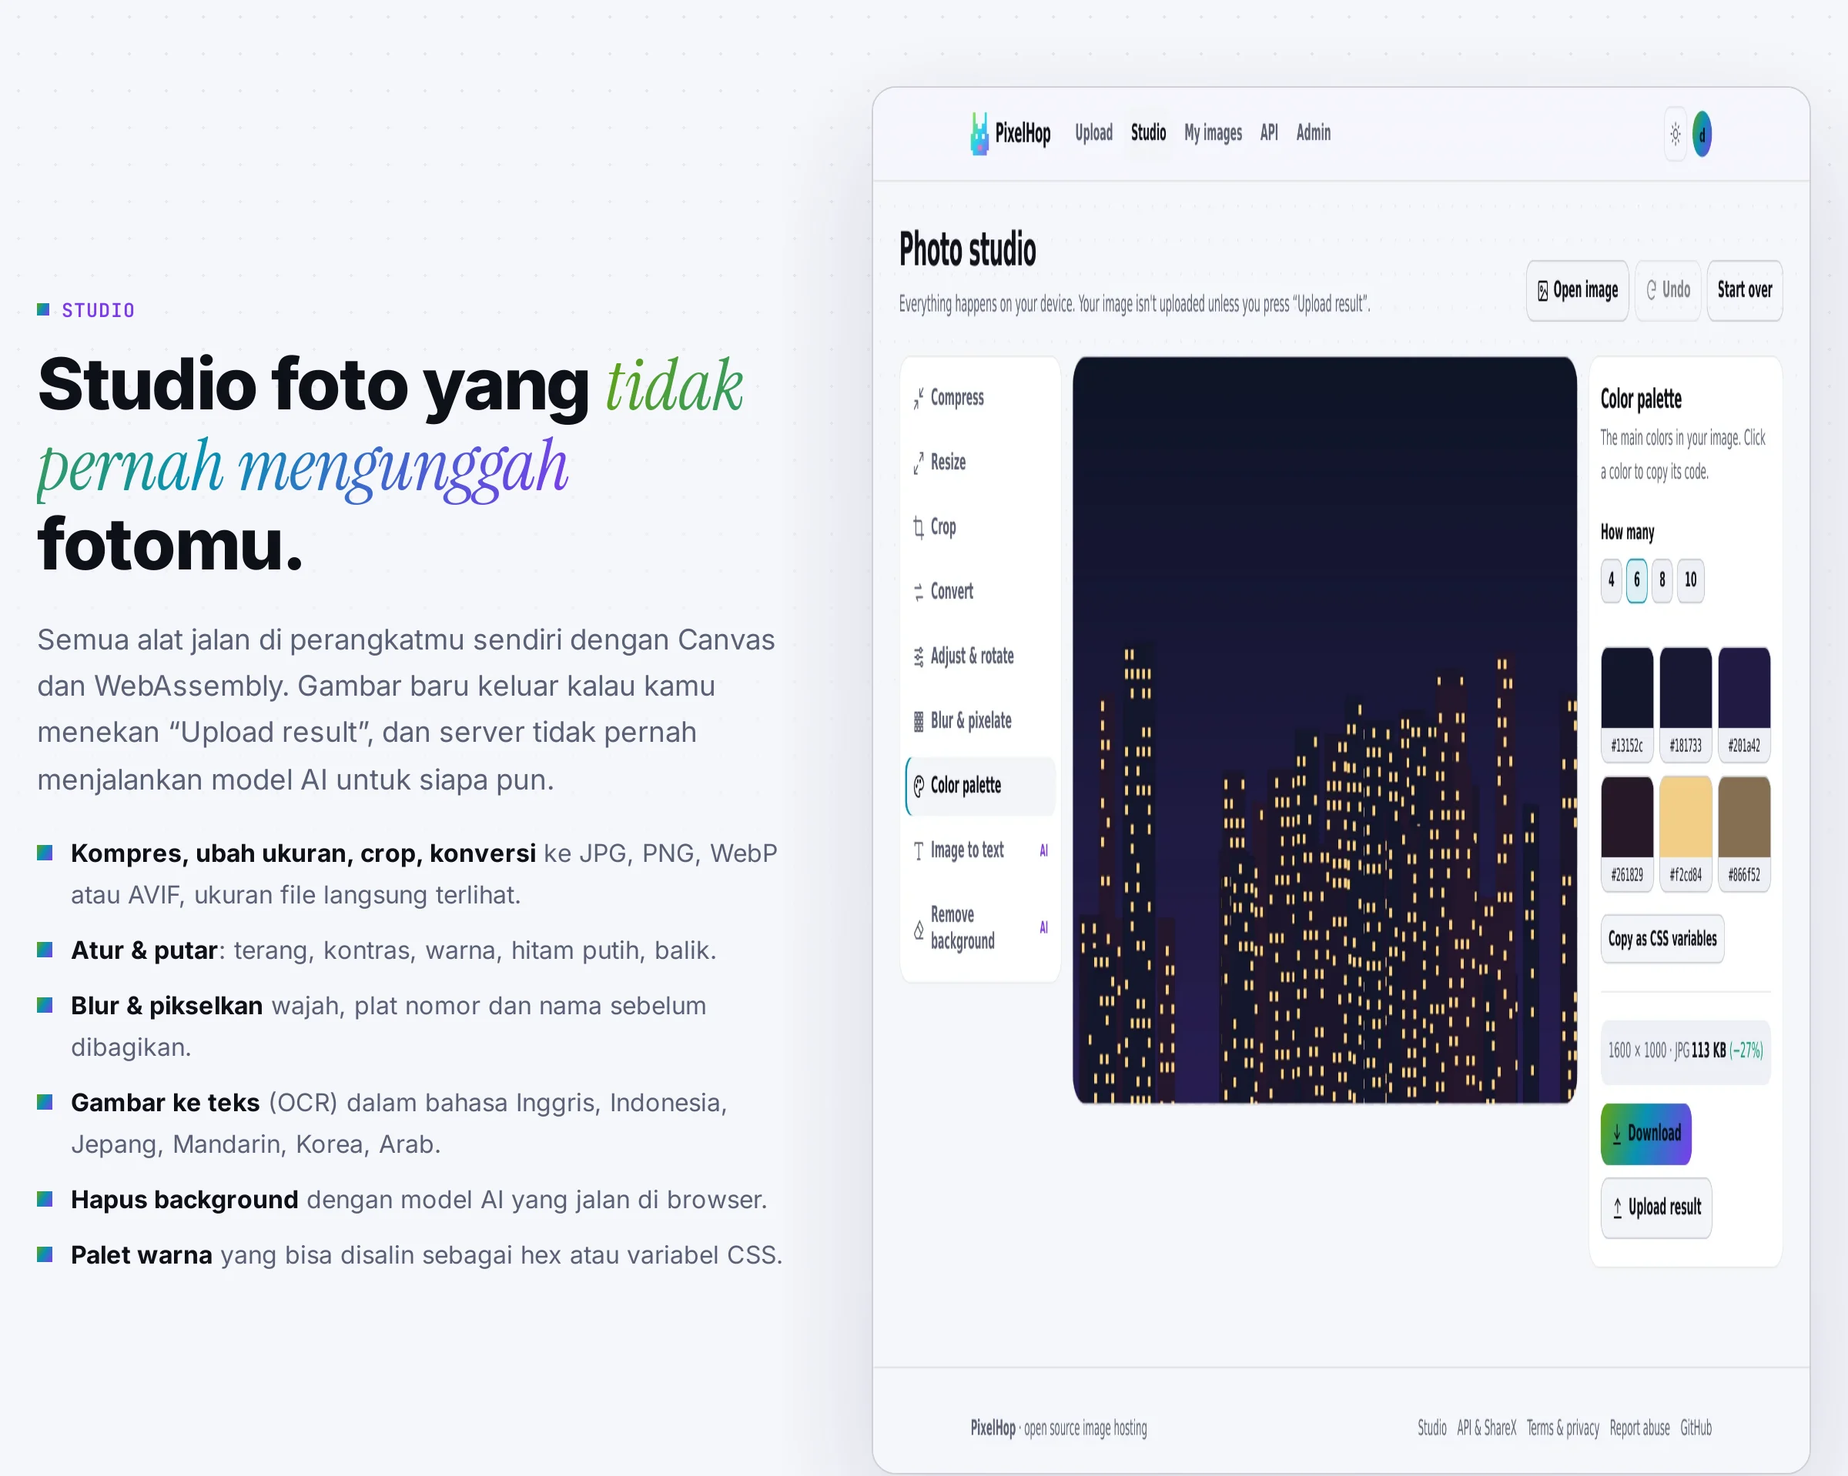
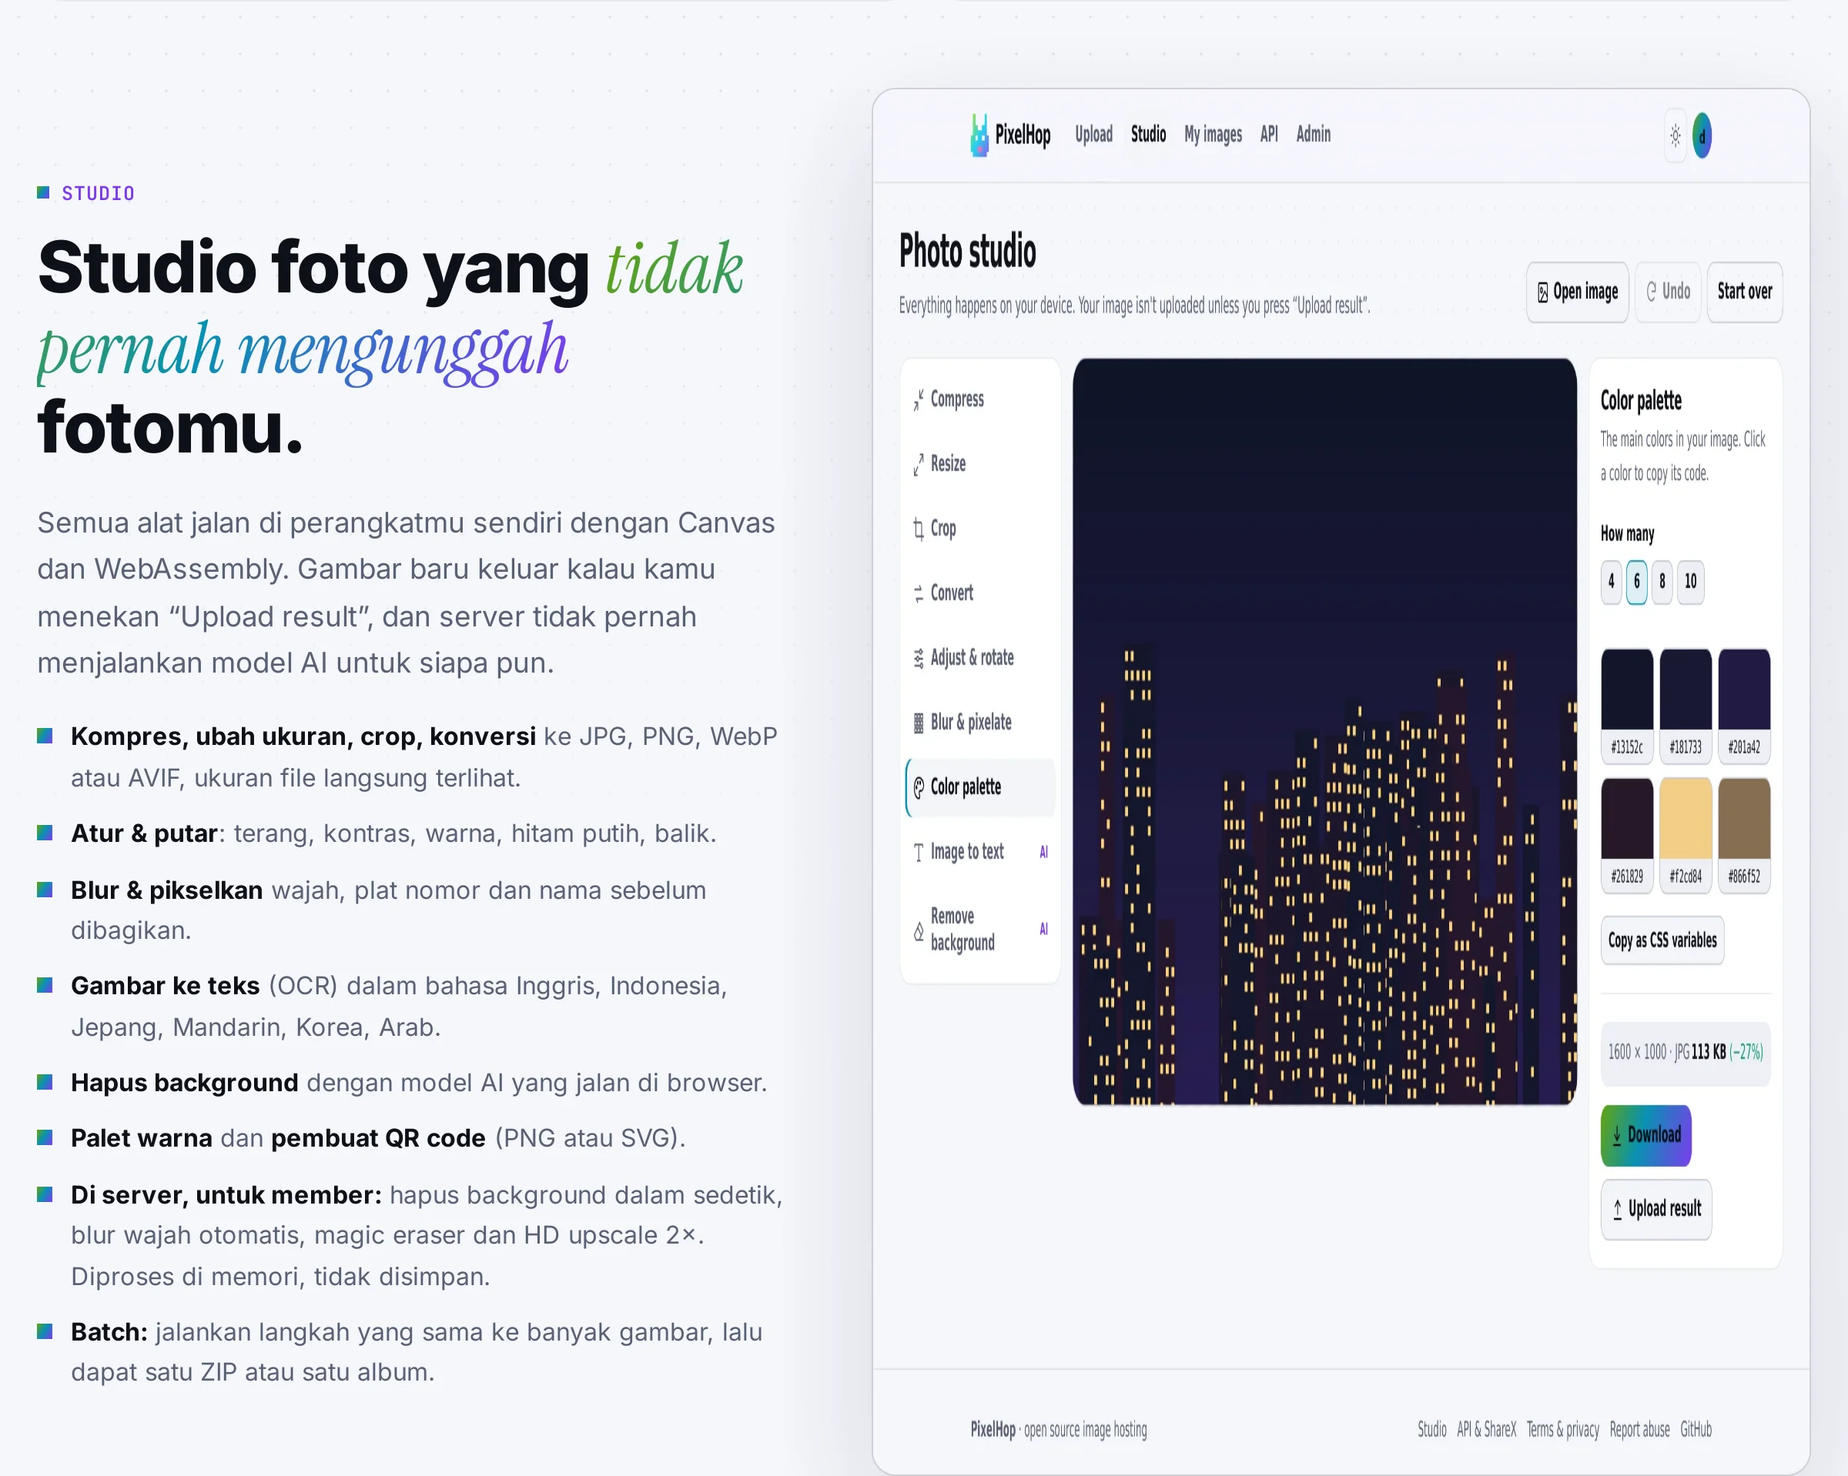
Docs for the full 3.0.0 feature set; Google callback .php path
- README (EN/ID), .env.example, CHANGELOG and AUDIT cover HEL.ink accounts,
  server AI tools, batch, copy-all links and QR codes
- deploy/pixelhop-ai.service example for tools/ai-server.py
- Website and README pictures re-rendered with the new features
- /auth/google-callback.php accepted, matching PixelHop 2's registered URI

diff --git a/docs/index.html b/docs/index.html
@@ -113,7 +113,9 @@ if(t==='light'||t==='dark')d.setAttribute('data-theme',t);})();
       <div style="--c:var(--amber)"><div class="ico"><svg><use href="#i-term"/></svg></div><h3>ShareX &amp; API</h3><p><span data-en>One-click ShareX config, REST API with keys. Old PixelHop 2 configs keep working.</span><span data-id>Config ShareX sekali klik, REST API dengan key. Config PixelHop 2 tetap jalan.</span></p></div>
       <div style="--c:var(--green)"><div class="ico"><svg><use href="#i-server"/></svg></div><h3><span data-en>Host it yourself</span><span data-id>Host sendiri</span></h3><p><span data-en>One binary, Docker image or systemd. Disk, R2, MinIO, B2, Contabo.</span><span data-id>Satu binary, image Docker atau systemd. Disk, R2, MinIO, B2, Contabo.</span></p></div>
       <div style="--c:var(--cyan)"><div class="ico"><svg><use href="#i-shield"/></svg></div><h3><span data-en>Moderation built in</span><span data-id>Moderasi bawaan</span></h3><p><span data-en>Reports, hide/delete, IP bans, lock or suspend accounts, warnings.</span><span data-id>Laporan, sembunyikan/hapus, ban IP, kunci atau suspend akun, peringatan.</span></p></div>
-      <div style="--c:var(--violet)"><div class="ico"><svg><use href="#i-qr"/></svg></div><h3><span data-en>Your gallery</span><span data-id>Galeri pribadi</span></h3><p><span data-en>Search, sort, rename and bulk delete. Guests keep a list on their own device.</span><span data-id>Cari, urutkan, ganti nama dan hapus massal. Tamu menyimpan daftar di perangkatnya.</span></p></div>
+      <div style="--c:var(--violet)"><div class="ico"><svg><use href="#i-qr"/></svg></div><h3><span data-en>Copy every link at once</span><span data-id>Copy semua link sekaligus</span></h3><p><span data-en>After a bulk upload: all direct, page, Markdown, BBCode or HTML links in one click. Gallery ZIP downloads too.</span><span data-id>Setelah upload massal: semua link direct, halaman, Markdown, BBCode atau HTML dengan satu klik. Galeri juga bisa diunduh sebagai ZIP.</span></p></div>
+      <div class="w3" style="--c:var(--pink)"><div class="ico"><svg><use href="#i-shield"/></svg></div><h3><span data-en>One account with HEL.ink</span><span data-id>Satu akun dengan HEL.ink</span></h3><p><span data-en>On p.hel.ink you sign in with your HEL.ink account: the same login for short links, bio pages and images, with Google sign-in and two-factor codes. Self-hosters can leave it off.</span><span data-id>Di p.hel.ink kamu login dengan akun HEL.ink: login yang sama untuk short link, halaman bio dan gambar, lengkap dengan Google dan kode 2FA. Yang self-host bisa mematikannya.</span></p></div>
+      <div class="w3" style="--c:var(--lime)"><div class="ico"><svg><use href="#i-zap"/></svg></div><h3><span data-en>Old links keep working</span><span data-id>Link lama tetap jalan</span></h3><p><span data-en>Every page, direct and thumbnail link from PixelHop 2, plus its ShareX configs and upload result pages, answers exactly as before.</span><span data-id>Semua link halaman, direct dan thumbnail dari PixelHop 2, beserta config ShareX dan halaman hasil upload, tetap berfungsi seperti dulu.</span></p></div>
     </div>
   </div>
 </section>
@@ -131,7 +133,9 @@ if(t==='light'||t==='dark')d.setAttribute('data-theme',t);})();
         <li><span data-en><b>Blur &amp; pixelate</b> faces, plates and names before you share.</span><span data-id><b>Blur &amp; pikselkan</b> wajah, plat nomor dan nama sebelum dibagikan.</span></li>
         <li><span data-en><b>Image to text</b> (OCR) in English, Indonesian, Japanese, Chinese, Korean, Arabic.</span><span data-id><b>Gambar ke teks</b> (OCR) dalam bahasa Inggris, Indonesia, Jepang, Mandarin, Korea, Arab.</span></li>
         <li><span data-en><b>Remove background</b> with an AI model that runs in the browser.</span><span data-id><b>Hapus background</b> dengan model AI yang jalan di browser.</span></li>
-        <li><span data-en><b>Color palette</b> you can copy as hex or CSS variables.</span><span data-id><b>Palet warna</b> yang bisa disalin sebagai hex atau variabel CSS.</span></li>
+        <li><span data-en><b>Color palette</b> and a <b>QR code generator</b> (PNG or SVG).</span><span data-id><b>Palet warna</b> dan <b>pembuat QR code</b> (PNG atau SVG).</span></li>
+        <li><span data-en><b>On the server, for members:</b> background removal in a second, automatic face blur, a magic eraser and HD upscale 2×. Processed in memory, never stored.</span><span data-id><b>Di server, untuk member:</b> hapus background dalam sedetik, blur wajah otomatis, magic eraser dan HD upscale 2×. Diproses di memori, tidak disimpan.</span></li>
+        <li><span data-en><b>Batch:</b> run the same steps on many images, then get one ZIP or one album.</span><span data-id><b>Batch:</b> jalankan langkah yang sama ke banyak gambar, lalu dapat satu ZIP atau satu album.</span></li>
       </ul>
     </div>
     <div class="mini-shot themed rv"><img class="dk" src="media/app-studio-dark.webp" alt="The PixelHop studio with the color palette tool open" width="1440" height="900" loading="lazy"><img class="lt" src="media/app-studio-light.webp" alt="" width="1440" height="900" loading="lazy"></div>
@@ -244,7 +248,7 @@ make build && ./pixelhop</pre></div></div>
     <div class="rv">
       <details><summary><span data-en>Is it free?</span><span data-id>Gratis?</span></summary><p><span data-en>Yes. p.hel.ink is free to use, and the code is MIT-licensed, so you can run your own copy, even commercially.</span><span data-id>Ya. p.hel.ink gratis dipakai, dan kodenya berlisensi MIT, jadi kamu bisa menjalankan versimu sendiri, bahkan untuk komersial.</span></p></details>
       <details><summary><span data-en>Do I need an account?</span><span data-id>Perlu akun?</span></summary><p><span data-en>No. Guests can upload and get a private delete link for each image (saved in their browser too). An account adds a gallery, a storage quota you can see, and API keys.</span><span data-id>Tidak. Tamu bisa mengunggah dan mendapat link hapus pribadi untuk setiap gambar (juga tersimpan di browser). Dengan akun kamu dapat galeri, kuota yang terlihat, dan API key.</span></p></details>
-      <details><summary><span data-en>Is the studio really offline?</span><span data-id>Studio benar-benar offline?</span></summary><p><span data-en>The editing happens on your device. The first time you use OCR or background removal, the browser downloads the open-source models (tesseract.js, @imgly/background-removal) from jsDelivr; your image is never sent anywhere.</span><span data-id>Pengeditan terjadi di perangkatmu. Saat pertama kali memakai OCR atau hapus background, browser mengunduh model open source (tesseract.js, @imgly/background-removal) dari jsDelivr; gambarmu tidak dikirim ke mana pun.</span></p></details>
+      <details><summary><span data-en>Is the studio private?</span><span data-id>Apakah studio privat?</span></summary><p><span data-en>Most tools run on your device and never send the image anywhere. The AI tools marked “server” (fast background removal, face blur, magic eraser, HD upscale) send it to the server you're using, process it in memory and discard it; you choose when to use them.</span><span data-id>Sebagian besar alat jalan di perangkatmu dan tidak mengirim gambar ke mana pun. Alat AI bertanda “server” (hapus background cepat, blur wajah, magic eraser, HD upscale) mengirimnya ke server, memprosesnya di memori lalu membuangnya; kamu yang memilih kapan memakainya.</span></p></details>
       <details><summary><span data-en>Which storage can I use?</span><span data-id>Storage apa saja yang bisa dipakai?</span></summary><p><span data-en>The local disk, or any S3-compatible bucket: AWS S3, Cloudflare R2, MinIO, Backblaze B2, Wasabi, Contabo. Set <code>S3_PUBLIC_URL</code> to serve images straight from a CDN.</span><span data-id>Disk lokal, atau bucket S3 apa saja: AWS S3, Cloudflare R2, MinIO, Backblaze B2, Wasabi, Contabo. Isi <code>S3_PUBLIC_URL</code> untuk menyajikan gambar langsung dari CDN.</span></p></details>
       <details><summary><span data-en>How do I report an image?</span><span data-id>Bagaimana melaporkan gambar?</span></summary><p><span data-en>Every image page has a Report button. Reports go straight to the moderators' queue, where they can hide or delete the image and ban the uploader.</span><span data-id>Setiap halaman gambar punya tombol Report. Laporan langsung masuk antrean moderator, yang bisa menyembunyikan atau menghapus gambar dan memblokir pengunggahnya.</span></p></details>
       <details><summary><span data-en>Why Go?</span><span data-id>Kenapa Go?</span></summary><p><span data-en>An image host spends its time moving bytes. Go does that with little memory, compiles to one file with everything inside, and cross-compiles to any server. PixelHop 2 needed PHP, MySQL, Python and cron; PixelHop 3 needs nothing but itself.</span><span data-id>Image host sebagian besar waktunya memindahkan byte. Go melakukannya dengan memori kecil, dikompilasi jadi satu file berisi semuanya, dan bisa dibuat untuk server apa pun. PixelHop 2 butuh PHP, MySQL, Python dan cron; PixelHop 3 tidak butuh apa-apa selain dirinya sendiri.</span></p></details>

diff --git a/internal/app/app.go b/internal/app/app.go
@@ -94,6 +94,7 @@ func (a *App) Handler() http.Handler {
 	mux.HandleFunc("GET /auth/google", a.googleStart)
 	mux.HandleFunc("GET /auth/google/callback", a.googleCallback)
 	mux.HandleFunc("GET /auth/google-callback", a.googleCallback) // redirect URI used by PixelHop 2
+	mux.HandleFunc("GET /auth/google-callback.php", a.googleCallback)
 
 	// member area
 	mux.HandleFunc("GET /dashboard", a.member(a.dashboard))

diff --git a/README.md b/README.md
@@ -65,10 +65,12 @@
 - **🙋 No account needed.**
   - Guests get a private delete link for every image, also remembered in their browser.
   - Accounts add a gallery with search, sorting, renaming, bulk delete and a storage quota.
-- **🎨 Photo studio, in the browser.**
-  - Compress, resize, crop, convert (JPG, PNG, WebP, AVIF), adjust and rotate, blur & pixelate, and pick a color palette.
-  - **OCR** in six languages (tesseract.js) and **background removal** (@imgly/background-removal).
-  - Nothing is uploaded unless you press *Upload result*.
+- **🎨 Photo studio.**
+  - In the browser: compress, resize, crop, convert (JPG, PNG, WebP, AVIF), adjust and rotate, blur & pixelate, color palette, **QR code generator**, **OCR** in six languages (tesseract.js) and background removal (@imgly). Nothing is uploaded unless you press *Upload result*.
+  - On the server, for signed-in users (optional [`tools/ai-server.py`](tools/ai-server.py)): **background removal** in about a second (rembg), **automatic face blur** (OpenCV), **magic eraser** (LaMa) and **HD upscale 2×** (Real-ESRGAN). One image at a time, daily limits, nothing stored.
+- **📦 Batch.** Resize, convert, remove backgrounds, blur faces or upscale a whole set, then download one ZIP or upload one album.
+- **📋 Copy all links.** After a bulk upload, on albums and in your gallery: every direct link, page link, Markdown, BBCode or HTML in one click.
+- **👤 One account with HEL.ink** (optional). Set `HELINK_URL` and `HELINK_SSO_SECRET` and people sign in with their [HEL.ink](https://hel.ink) account; sign-up, passwords, Google and 2FA live there.
 - **🔌 API & ShareX.**
   - A REST API with `Bearer` keys.
   - The settings page makes a ready-to-use `.sxcu` file for ShareX.
@@ -126,6 +128,9 @@ Everything is in [`.env.example`](.env.example). The ones you're most likely to 
 | `S3_ENDPOINT`, `S3_BUCKET`, `S3_ACCESS_KEY`, `S3_SECRET_KEY` | — | For S3-compatible storage |
 | `S3_PUBLIC_URL` | — | CDN address of the bucket; image links redirect there |
 | `GOOGLE_CLIENT_ID`, `GOOGLE_CLIENT_SECRET` | — | "Sign in with Google" |
+| `HELINK_URL`, `HELINK_SSO_SECRET` | — | Sign in with a HEL.ink account (same secret as HEL.ink's `PIXELHOP_SSO_SECRET`) |
+| `TURNSTILE_SITE_KEY`, `TURNSTILE_SECRET_KEY` | — | Cloudflare Turnstile on sign-in and sign-up |
+| `PIXELHOP_REMBG_URL` | — | Address of `tools/ai-server.py`, e.g. `http://127.0.0.1:7001`, to turn on the server AI tools |
 | `PIXELHOP_INACTIVE_DAYS` | `0` | Delete images nobody viewed for N days |
 
 </details>
@@ -134,7 +139,7 @@ Everything is in [`.env.example`](.env.example). The ones you're most likely to 
 <summary><b>Behind nginx / Cloudflare, and as a service</b></summary>
 
 - [`deploy/nginx.conf`](deploy/nginx.conf) is a reverse-proxy example. Set `PIXELHOP_TRUSTED_PROXIES=127.0.0.1` so PixelHop believes nginx's `X-Forwarded-For`; add `cloudflare` if Cloudflare is in front.
-- [`deploy/pixelhop.service`](deploy/pixelhop.service) is a hardened systemd unit.
+- [`deploy/pixelhop.service`](deploy/pixelhop.service) is a hardened systemd unit; [`deploy/pixelhop-ai.service`](deploy/pixelhop-ai.service) runs the optional AI tools (`pip install "rembg[cpu]" opencv-python-headless onnxruntime`, plus the LaMa and Real-ESRGAN x2plus ONNX files).
 - Back up by copying the data folder (or `sqlite3 data/pixelhop.db ".backup copy.db"` while it runs).
 
 </details>
@@ -160,6 +165,8 @@ curl -H "Authorization: Bearer ph_yourkey" -F "file=@holiday.jpg" https://p.hel.
 | `GET` · `PATCH` · `DELETE /api/v1/images/{id}` | Read, rename (`{"title": …}`) or delete one |
 | `GET /api/v1/me` | Your account and storage use |
 | `GET /api/v1/stats` | Public totals |
+| `POST /api/v1/tools/{remove-background,faces,erase,upscale}` | Server AI tools (signed in; `file`, plus `mask` for erase) |
+| `GET /tools/qr.png` · `/tools/qr.svg` | QR code for `text` (`size`, `level`, `fg`, `bg`) |
 
 Every answer looks like `{"success": true, "data": …}` or `{"success": false, "error": "…"}`. The full reference is at [`/docs`](https://p.hel.ink/docs) on any PixelHop server.
 

diff --git a/README.id.md b/README.id.md
@@ -64,10 +64,12 @@
 - **🙋 Tidak perlu akun.**
   - Tamu dapat link hapus pribadi untuk setiap gambar, juga diingat di browsernya.
   - Akun menambah galeri dengan pencarian, urutan, ganti nama, hapus massal dan kuota storage.
-- **🎨 Studio foto di browser.**
-  - Kompres, ubah ukuran, crop, konversi (JPG, PNG, WebP, AVIF), atur & putar, blur & pikselkan, dan palet warna.
-  - **OCR** enam bahasa (tesseract.js) dan **hapus background** (@imgly/background-removal).
-  - Tidak ada yang diunggah kecuali kamu menekan *Upload result*.
+- **🎨 Studio foto.**
+  - Di browser: kompres, ubah ukuran, crop, konversi (JPG, PNG, WebP, AVIF), atur & putar, blur & pikselkan, palet warna, **pembuat QR code**, **OCR** enam bahasa dan hapus background. Tidak ada yang diunggah kecuali kamu menekan *Upload result*.
+  - Di server, untuk user yang login (opsional, [`tools/ai-server.py`](tools/ai-server.py)): **hapus background** sekitar 1 detik, **blur wajah otomatis**, **magic eraser** (LaMa) dan **HD upscale 2×** (Real-ESRGAN). Satu gambar per giliran, ada batas harian, tidak ada yang disimpan.
+- **📦 Batch.** Ubah ukuran, konversi, hapus background, blur wajah atau upscale banyak gambar sekaligus, lalu unduh satu ZIP atau unggah jadi satu album.
+- **📋 Copy semua link.** Setelah upload massal, di album dan galeri: semua link direct, halaman, Markdown, BBCode atau HTML dengan satu klik.
+- **👤 Satu akun dengan HEL.ink** (opsional). Isi `HELINK_URL` dan `HELINK_SSO_SECRET`, maka user login memakai akun [HEL.ink](https://hel.ink); daftar, password, Google dan 2FA diurus di sana.
 - **🔌 API & ShareX.**
   - REST API dengan key `Bearer`.
   - Halaman settings membuat file `.sxcu` siap pakai untuk ShareX.

diff --git a/CHANGELOG.md b/CHANGELOG.md
@@ -6,6 +6,14 @@ All notable changes to PixelHop will be documented in this file.
 
 PixelHop rebuilt from scratch in Go. See [AUDIT.md](AUDIT.md) for why.
 
+### Added after the first preview
+- **One account with HEL.ink**: optional sign-in with a HEL.ink account (signed, single-use tickets); sign-up, password resets, Google and 2FA handled by HEL.ink; `pixelhop user merge` folds old accounts in.
+- **Server AI tools** (optional `tools/ai-server.py`): background removal, automatic face blur, magic eraser (LaMa) and HD upscale 2x (Real-ESRGAN), sign-in only with daily limits.
+- **Batch page**: the same steps for many images, then one ZIP or one album.
+- **Copy all links** after bulk uploads, on albums and on old `/result` links; share buttons; thumbnail links; gallery select all, copy links and ZIP download.
+- **QR code generator** for any text, PNG or SVG.
+- Cloudflare **Turnstile**, a **Help** page, admin tool usage and disk space, local-only `/metrics`, and redirects for every PixelHop 2 page and tool address.
+
 ### Added
 - **One binary**: web server, SQLite database and cleanup janitor in a ~16 MB executable. Docker image, systemd unit and nginx example included.
 - **Lossless metadata stripping**: GPS/EXIF, XMP and IPTC removed from JPEG, PNG and WebP without re-encoding; EXIF rotation applied first.

diff --git a/AUDIT.md b/AUDIT.md
@@ -93,6 +93,7 @@ Upscaling and object erasing were dropped: they need a GPU-class model to be wor
 
 ## Not carried over (yet)
 
-- **Email** verification and password-reset mails. Admins can reset a password in the panel or with `pixelhop user passwd`.
 - **Google Safe Browsing scans** (SafeGuard), the automatic abuse scoring (AbuseGuard), and the daily summary mail.
-- **Server-side upscale, erase and face blur.** The studio has manual blur/pixelate instead.
+- **Orphan-file cleanup** for storage buckets.
+
+Email verification and password resets are handled by HEL.ink when its accounts are used; upscale, magic eraser and face blur came back as server AI tools.
